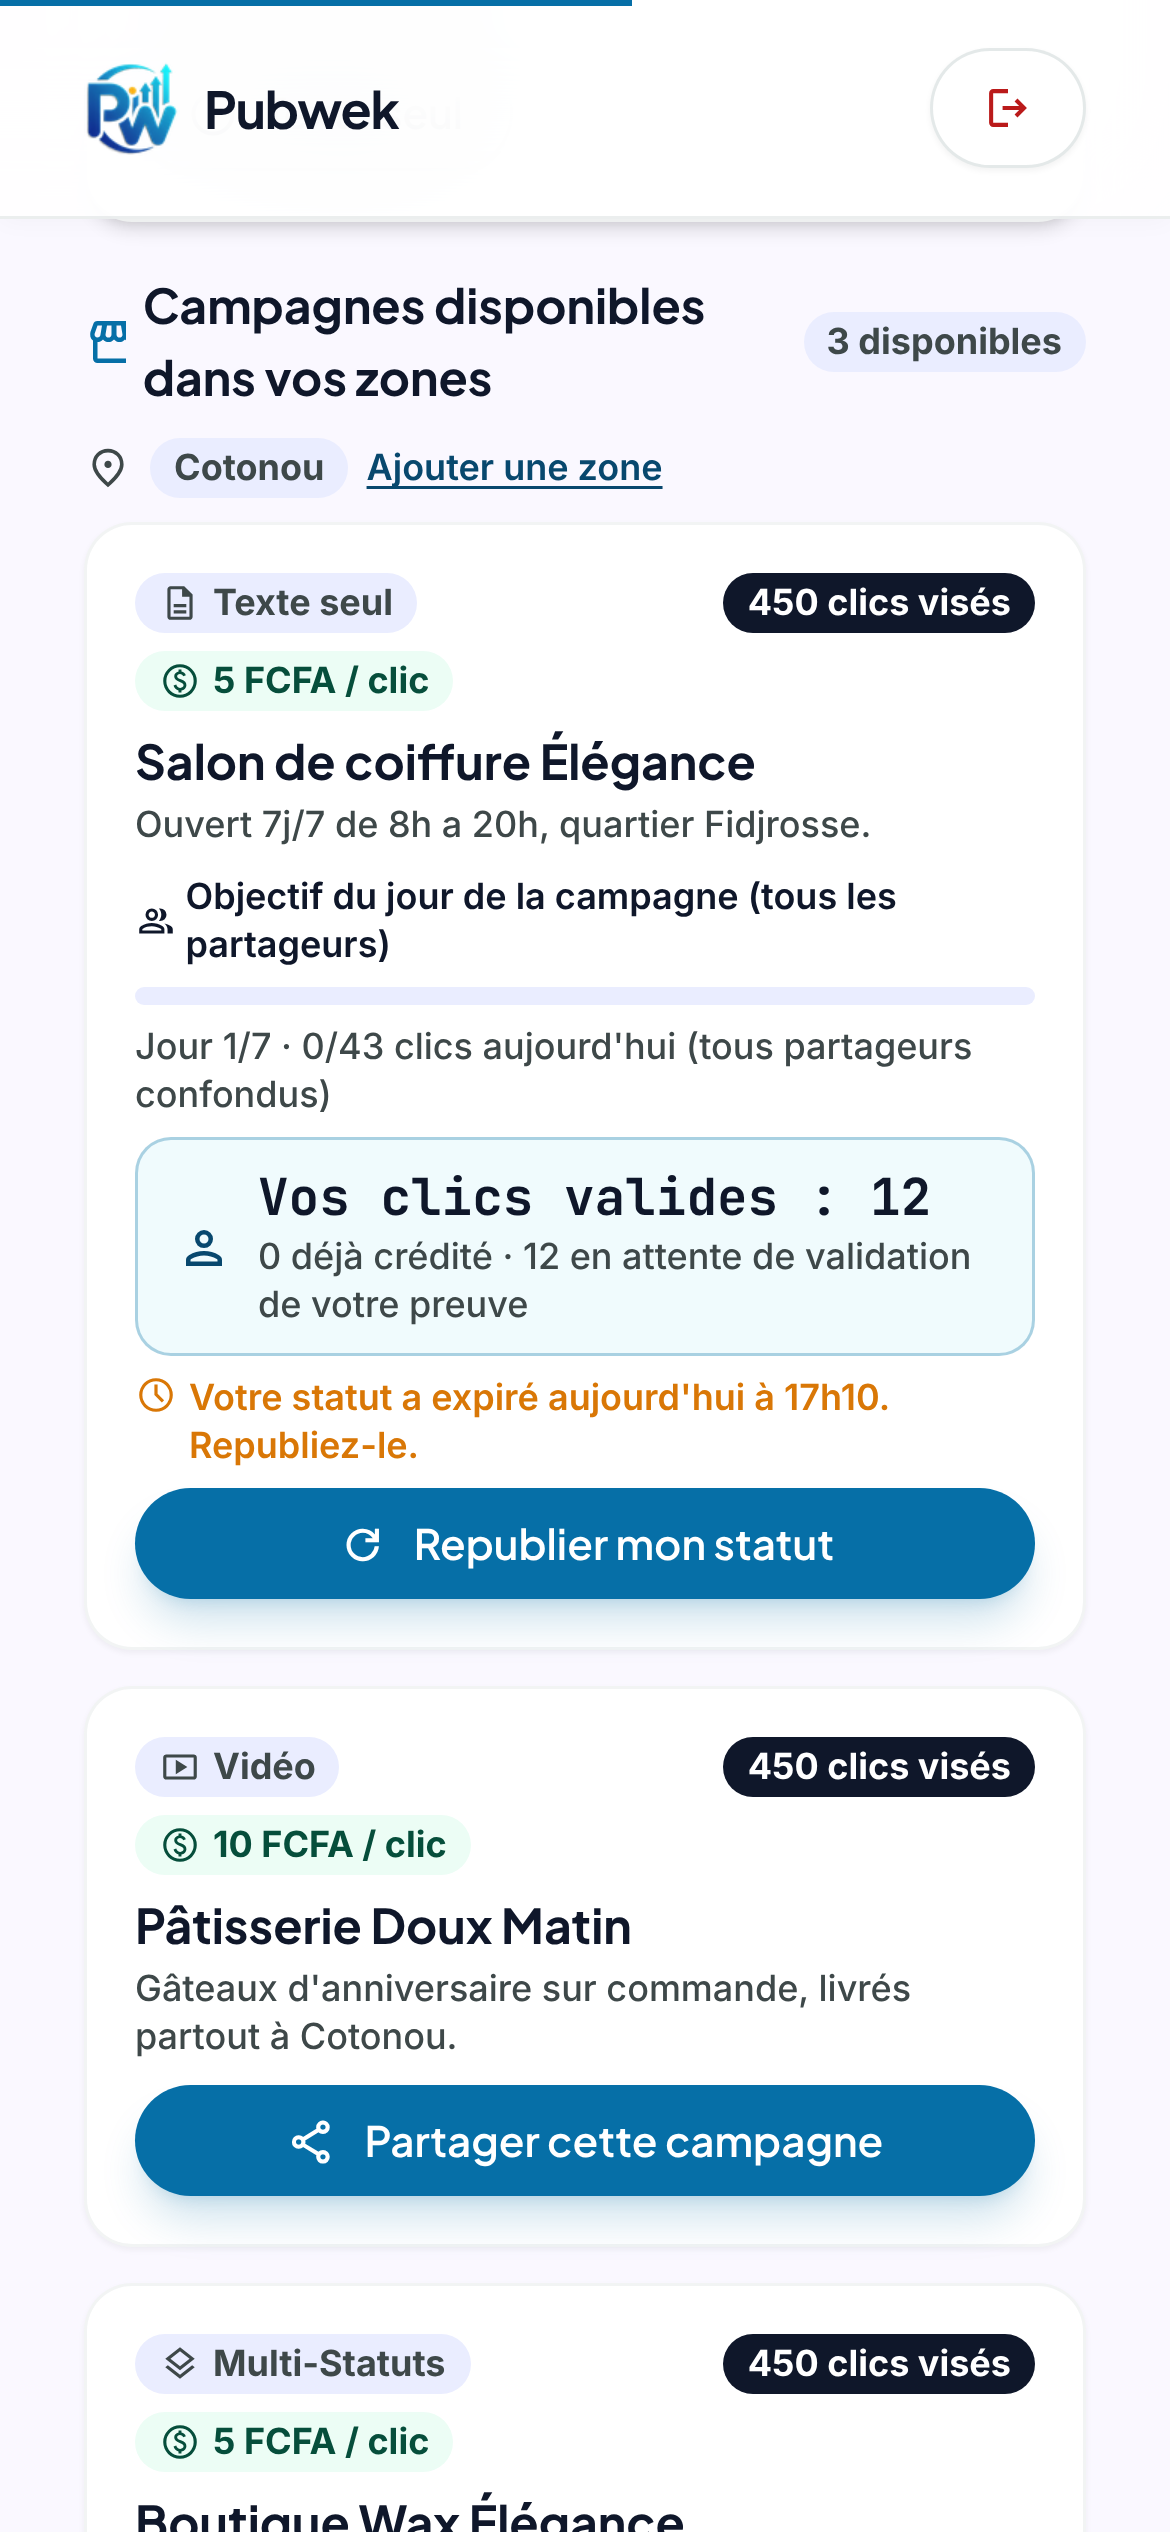
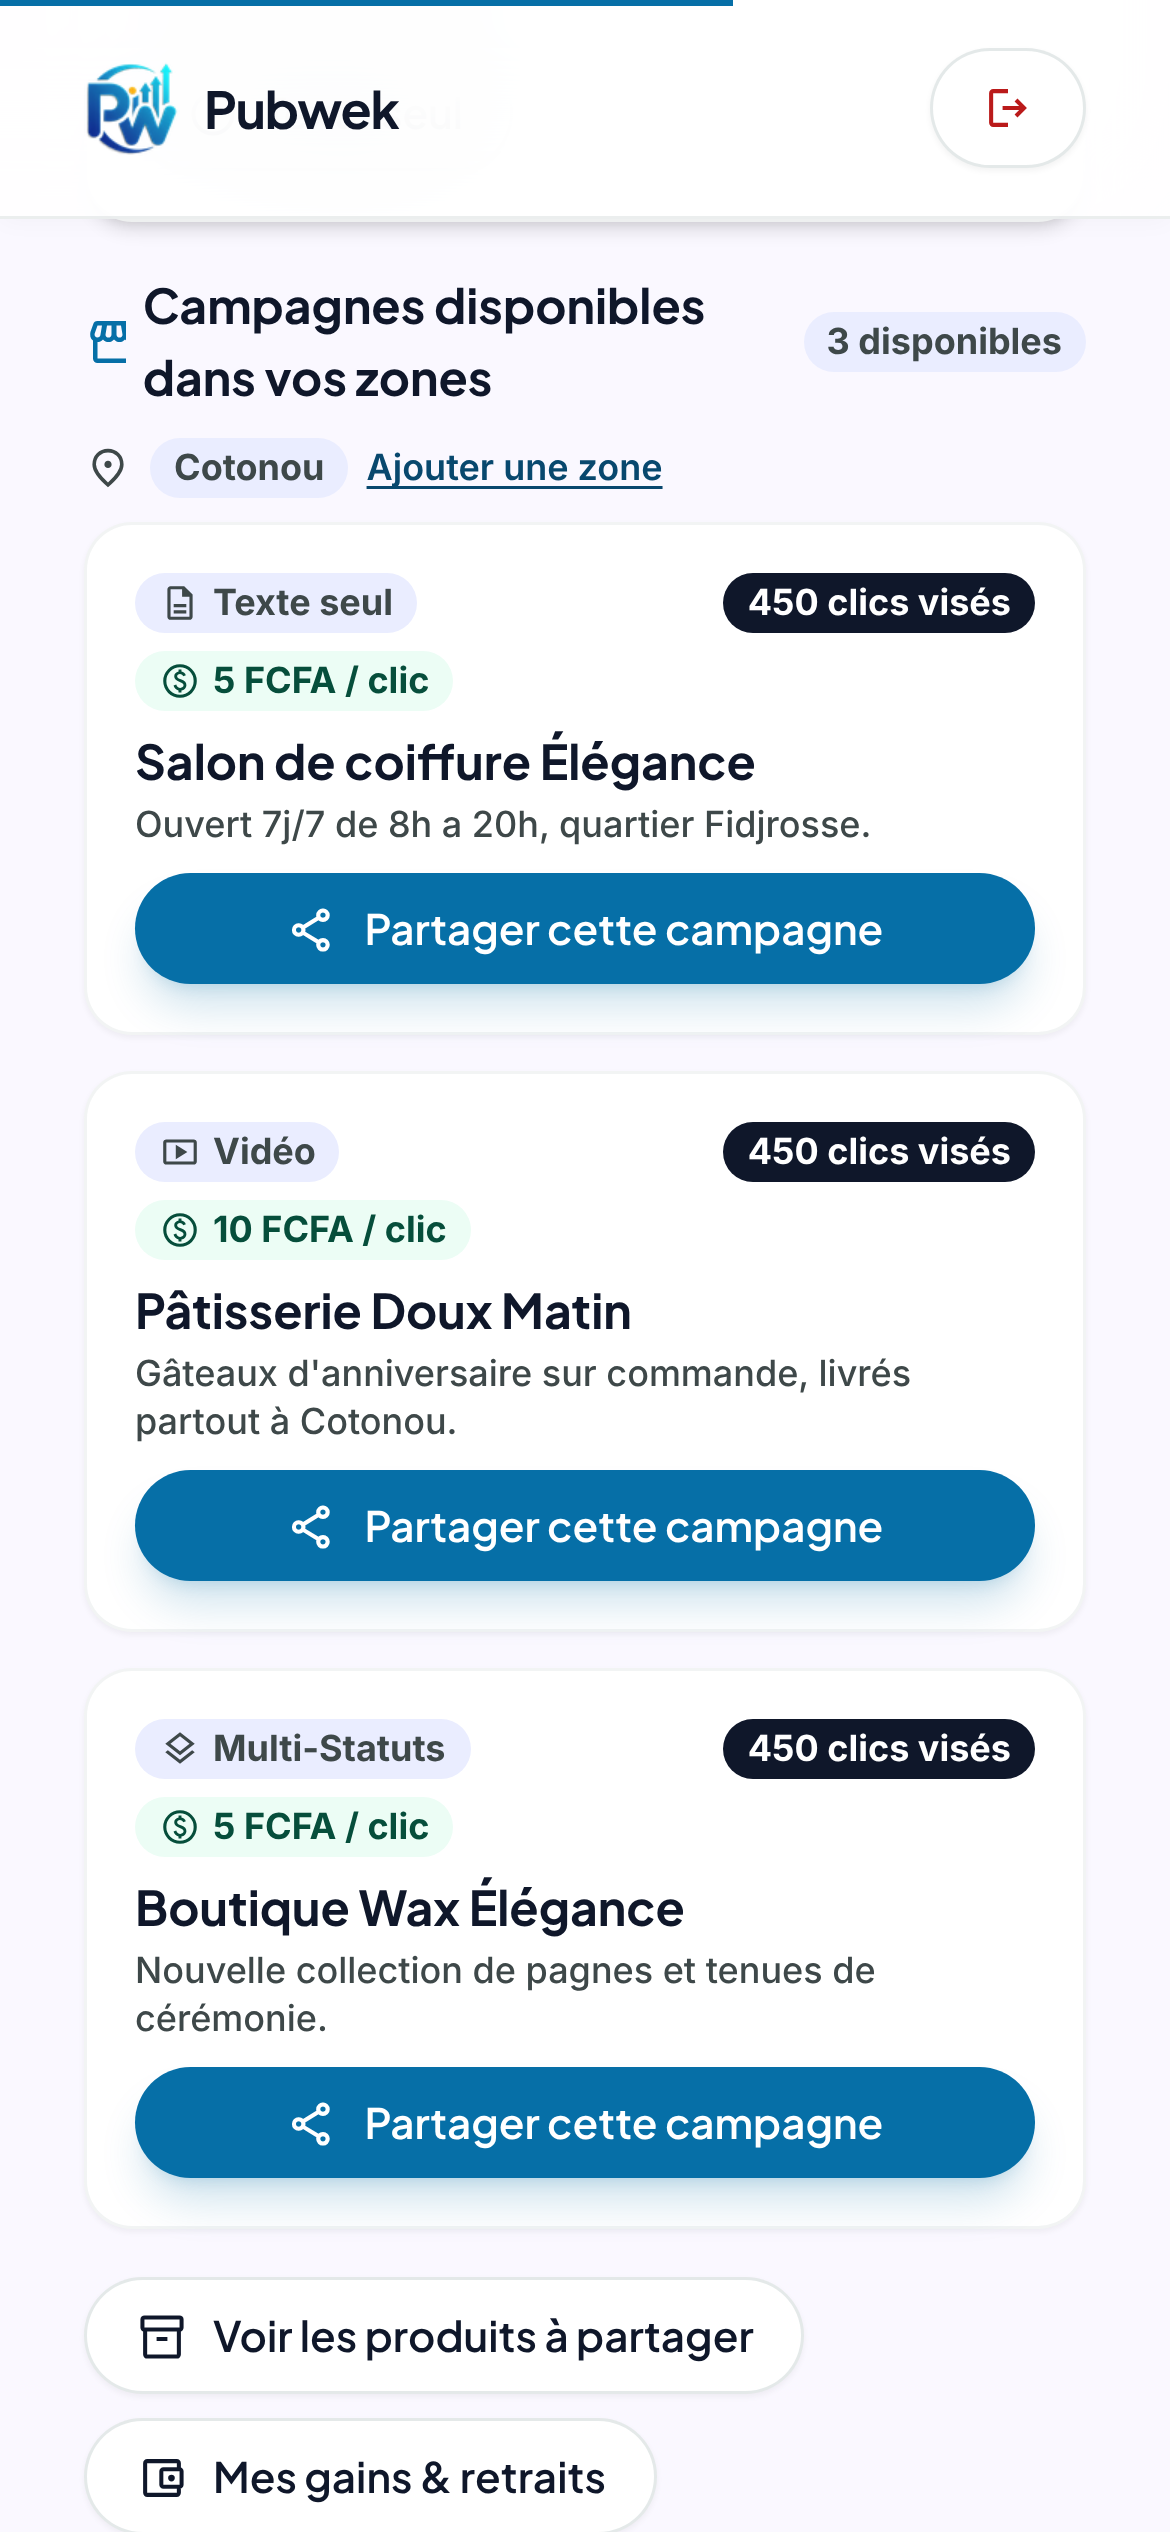
Video partageurs v3 : etape de capture retiree (preuve desactivee), 4 etapes, script mis a jour
Claude-Session: https://claude.ai/code/session_015BwgJecJa5iMXppfJQc2dT

diff --git a/production_video/compo/compo.html b/production_video/compo/compo.html
@@ -189,7 +189,7 @@ svg{display:block}
 <!-- ============ S7 : ÉTAPE 5 RETRAIT ============ -->
 <section class="scene" id="s7">
  <div class="bg bg-blue"></div><div class="dots"></div>
- <div class="steptitle"><div class="row"><div class="badge">5</div><h1>Retire<br>ton argent</h1></div></div>
+ <div class="steptitle"><div class="row"><div class="badge">4</div><h1>Retire<br>ton argent</h1></div></div>
  <div id="s7min" style="position:absolute;left:870px;top:300px;width:250px;height:250px;margin:-125px 0 0 -125px;border-radius:50%;background:#FBBF24;color:#0F172A;border:9px solid #fff;display:flex;flex-direction:column;align-items:center;justify-content:center;box-shadow:0 20px 50px rgba(0,0,0,.45);opacity:0;z-index:9;transform:rotate(8deg)">
    <div style="font:800 34px 'Plus Jakarta Sans'">dès</div><div style="font:800 82px/1 'Plus Jakarta Sans';letter-spacing:-2px">500 F</div></div>
  <div id="s7ops" style="position:absolute;left:60px;right:60px;top:450px;display:grid;grid-template-columns:1fr 1fr;gap:18px;z-index:8">
@@ -206,7 +206,7 @@ svg{display:block}
  </div></div>
  <div class="tap" id="s7tap"></div>
  <div id="s7v" style="position:absolute;inset:0;opacity:0;z-index:9"><video class="vid" id="v7" src="clip2.webm" muted preload="auto"></video><div class="shade" style="height:600px"></div>
-   <div style="position:absolute;left:66px;top:200px" class="row"><div class="badge">5</div><h1 style="font-size:82px;font-weight:800;line-height:1.02;letter-spacing:-2px">Retire<br>ton argent</h1></div></div>
+   <div style="position:absolute;left:66px;top:200px" class="row"><div class="badge">4</div><h1 style="font-size:82px;font-weight:800;line-height:1.02;letter-spacing:-2px">Retire<br>ton argent</h1></div></div>
  <div class="chip" id="s7ex" style="left:70px;right:70px;top:1250px;opacity:0;z-index:10;text-align:center;padding:26px">
    <div style="font:800 24px Inter;letter-spacing:3px;color:#D97706">EXEMPLE — VIDÉO</div>
    <div style="font:800 58px 'Plus Jakarta Sans';margin-top:6px">50 clics × 10 F = <span style="color:#16A34A">500 F</span></div></div>
@@ -322,6 +322,7 @@ let sh='';for(let i=0;i<60;i++){const x=(i*137)%1080,y=(i*251)%1100,r=1+(i%3);sh
 
 // ---------- transitions entre scènes ----------
 function sceneWrap(id,t){
+  if(!T[id]){$(id).style.display='none';return null;}
   const [a,b]=T[id],el=$(id);
   if(t<a-0.0001||(t>b+TR&&id!=='s9')){el.style.display='none';return null;}
   el.style.display='block';

diff --git a/production_video/cap3.js b/production_video/cap3.js
@@ -16,8 +16,8 @@ const fs=require('fs');
   if((await btn.innerText()).includes('Partager')){await btn.click(); await p.waitForLoadState('networkidle');}
   await p.goto(B+'/partageur/instructions_partage/5',{waitUntil:'networkidle'}); await shot('instr_top');
   await bx('it_rate','text=10 FCFA par clic valide',1); await bx('it_copy','text=Copier le texte complet');
-  await fixFile(); await scrollTo('text=Envoyez la preuve',90); await shot('instr_proof');
-  await bx('ip_card','text=Preuve à envoyer',2); await bx('ip_send','button:has-text("Envoyer") >> visible=true');
+  if(await p.locator('text=Envoyez la preuve').count()){ await fixFile(); await scrollTo('text=Envoyez la preuve',90); await shot('instr_proof');
+  await bx('ip_card','text=Preuve à envoyer',2); await bx('ip_send','button:has-text("Envoyer") >> visible=true'); }
   await p.goto(B+'/partageur/mes-retraits',{waitUntil:'networkidle'}); await scrollTo('text=Faire une demande de retrait',330); await shot('retrait_form');
   await bx('rf_select','select'); await bx('rf_send','text=Envoyer la demande de retrait');
  } else {

diff --git a/production_video/audio.py b/production_video/audio.py
@@ -177,7 +177,7 @@ def type_k(): return click() * .6
 def at(sc, lt): return T[sc][0] + lt
 
 # transitions
-for sc in ["s2", "s3", "s4", "s5", "s6", "s7", "s8", "s9"]:
+for sc in [k for k in ["s2", "s3", "s4", "s5", "s6", "s7", "s8", "s9"] if k in T]:
     add(sfx, whoosh(), T[sc][0] - .08, .35)
 # S1 : compteur + tampon 0 F
 for k in range(14):
@@ -198,12 +198,13 @@ add(sfx, pop(), at("s5", .15), .6)
 add(sfx, click(), at("s5", 2.05), .9); add(sfx, pop(), at("s5", 2.2), .5)
 for i, tt in enumerate([3.15, 3.45, 3.75, 4.35, 4.65]): add(sfx, coin(2600 + i * 120), at("s5", tt), .55, (-1) ** i * .5)
 add(sfx, bonk(), at("s5", 4.15), .35)
-# S6
-add(sfx, pop(), at("s6", .15), .6)
-add(sfx, shutter(), at("s6", .75), .9)
-add(sfx, whoosh(.3), at("s6", 2.0), .25)
-add(sfx, click(), at("s6", 2.85), .9); add(sfx, success(), at("s6", 3.0), .6)
-add(sfx, pop(), at("s6", 3.25), .4)
+# S6 (seulement si la scène existe)
+if "s6" in T:
+    add(sfx, pop(), at("s6", .15), .6)
+    add(sfx, shutter(), at("s6", .75), .9)
+    add(sfx, whoosh(.3), at("s6", 2.0), .25)
+    add(sfx, click(), at("s6", 2.85), .9); add(sfx, success(), at("s6", 3.0), .6)
+    add(sfx, pop(), at("s6", 3.25), .4)
 # S7
 add(sfx, pop(), at("s7", .15), .6)
 for i in range(4): add(sfx, pop(), at("s7", .45 + i * .16), .5, (-1) ** i * .3)

diff --git a/production_video/SCRIPT_VOIX_OFF_PUBWEK.md b/production_video/SCRIPT_VOIX_OFF_PUBWEK.md
@@ -1,6 +1,6 @@
 # Script de la voix off — Pubwek (partageurs)
 
-Durée visée : environ 45 secondes. Ton : chaleureux, souriant et énergique, comme quelqu'un qui partage un bon plan avec une amie. Le texte tutoie, il ne fait pas de discours.
+Durée visée : environ 42 secondes. Ton : chaleureux, souriant et énergique, comme quelqu'un qui partage un bon plan avec une amie. Le texte tutoie, il ne fait pas de discours.
 
 ## Le texte à donner au générateur
 
@@ -17,9 +17,7 @@ Deux : choisis une pub de ta zone. Une vidéo, c'est dix francs par clic.
 
 Trois : copie le texte et publie-le sur ton statut. Chaque vrai clic de tes contacts compte.
 
-Quatre : le soir, envoie la capture de ton statut. Sans capture, les clics du jour ne sont pas payés.
-
-Cinq : dès cinq cents francs, retire ton argent sur MoMo, Moov, Celtiis ou Wave.
+Quatre : dès cinq cents francs, retire ton argent sur MoMo, Moov, Celtiis ou Wave.
 
 Ce n'est pas un salaire. C'est un complément : ton crédit, ton zém, un petit plus.
 
@@ -35,10 +33,9 @@ Va sur pubwek point com et inscris-toi gratuitement. Demain matin, ton statut tr
 | 3 | Étape 1 | Vraie page d'inscription Pubwek, « 0 F à payer » | ~4,5 s |
 | 4 | Étape 2 | Vraie liste des campagnes, et les tarifs : Vidéo 10 F, Images 5 F, Texte 5 F | ~5,5 s |
 | 5 | Étape 3 | Bouton « Copier le texte », le statut publié, des « +10 F » et « Faux clic = 0 F » | ~5,5 s |
-| 6 | Étape 4 | De nuit : capture d'écran, puis envoi de la preuve | ~4,5 s |
-| 7 | Étape 5 | MTN MoMo, Moov Money, Celtiis Cash et Wave, « dès 500 F », l'exemple 50 × 10 F | ~6 s |
-| 8 | Honnêteté | « Ce n'est pas un salaire », puis crédit, zém, petit plus | ~5 s |
-| 9 | Appel à l'action | Logo, pubwek.com tapé à l'écran, bouton « Inscris-toi gratuitement » | ~6,5 s |
+| 6 | Étape 4 | MTN MoMo, Moov Money, Celtiis Cash et Wave, « dès 500 F », le conducteur de zém, l'exemple 50 × 10 F | ~6 s |
+| 7 | Honnêteté | « Ce n'est pas un salaire », puis crédit, zém, petit plus | ~5 s |
+| 8 | Appel à l'action | Logo, pubwek.com tapé à l'écran, bouton « Inscris-toi gratuitement » | ~6,5 s |
 
 Ces durées sont indicatives. C'est la vidéo qui s'adaptera à la voix, pas l'inverse : je recale chaque scène sur la phrase qui lui correspond.
 
@@ -48,7 +45,7 @@ Ces durées sont indicatives. C'est la vidéo qui s'adaptera à la voix, pas l'i
 - **Débit** : légèrement rapide, mais il faut garder une petite pause après « Un : », « Deux : », etc.
 - **Prononciation** : « pubwek point com » est déjà écrit en toutes lettres, pour que le générateur ne lise pas « pubwek.com » de travers. Si « Celtiis » est mal lu, écris « Seltisse ». Si « zém » est mal lu, écris « zèm ».
 - **Format** : WAV, ou MP3 en 320 kbit/s, sans musique ni effet ajouté. Je m'occupe du mixage.
-- **Idéal** : un fichier par paragraphe (9 fichiers). Sinon, un seul fichier avec environ une demi-seconde de silence entre les paragraphes.
+- **Idéal** : un fichier par paragraphe (8 fichiers). Sinon, un seul fichier avec environ une demi-seconde de silence entre les paragraphes.
 
 ## Ce que je ferai quand tu m'enverras la voix
 
